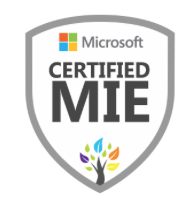
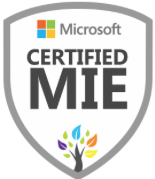
format change

diff --git a/index.html b/index.html
@@ -70,7 +70,17 @@
           <a href="mailto:alexjschenk@gmail.com">alexjschenk@gmail.com</a>
         </div>
         <p class="lead mb-5">I am a student-centered, innovative, and results-oriented educator passionate about providing transformative STEM learning experiences. Nothing gives me more joy than my students. </p>
-        <div class="social-icons">
+
+
+
+
+        <img width="120px"src="img/mie.png">
+        <img width="290px"src="img/unnamed.png">
+        <img width="200px"src="img/arduino.png">
+<br>
+<br>
+<br>
+            <div class="social-icons">
           <a href="https://www.linkedin.com/in/alexander-schenk-75397012a/">
             <i class="fab fa-linkedin-in"></i>
           </a>
@@ -79,12 +89,8 @@
             <i class="fab fa-twitter"></i>
           </a>
 
+
 <br>
-<br>
-<br>
-<img width="150px"src="img/mie.png">
-<img width="290px"src="img/unnamed.png">
-<img width="200px"src="img/arduino.png">
 
 
 
